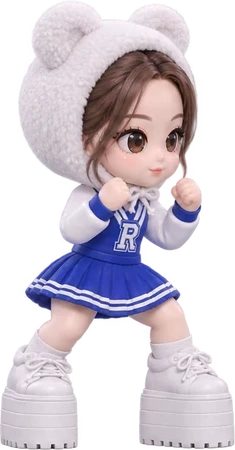
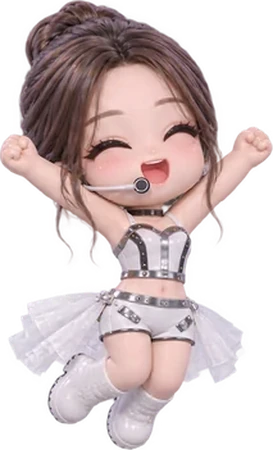
R 초상을 게임 속 R 그림으로 교체

diff --git a/js/assetv.js b/js/assetv.js
@@ -1,2 +1,2 @@
-const ASSET_V={"assets/audio/bgm.mp3":"1aaba7b2","assets/audio/extra-1.mp3":"27643529","assets/audio/qwer-d-day.mp3":"2830167b","assets/audio/qwer-fake-idol.mp3":"d2b479f6","assets/audio/qwer-ferris-wheel.mp3":"120067c3","assets/audio/qwer-fireworks.mp3":"bdbf5ae5","assets/audio/qwer-goodbye-sorrow.mp3":"504b895b","assets/audio/qwer-my-name-is-malguem.mp3":"eebe45ad","assets/audio/qwer-search-qwer.mp3":"e2c33678","assets/audio/qwer-soda.mp3":"25b22c69","assets/audio/qwer-tb-h.mp3":"cb39dc88","assets/audio/voices/E-select.mp3":"017d7db5","assets/audio/voices/E-win.mp3":"9423c33f","assets/audio/voices/Q-select.mp3":"2b9a2cb5","assets/audio/voices/Q-win.mp3":"32c22843","assets/audio/voices/R-select.mp3":"67428aa2","assets/audio/voices/R-win.mp3":"421a2656","assets/audio/voices/W-select.mp3":"bfeec2d0","assets/audio/voices/W-win.mp3":"286b2432","assets/backgrounds/bg_anime.webp":"49189dc7","assets/backgrounds/bg_aqua.webp":"98b68019","assets/backgrounds/bg_band.webp":"b2ecf112","assets/backgrounds/bg_base.webp":"dd71b105","assets/backgrounds/bg_beach.webp":"48f2346a","assets/backgrounds/bg_bridge.webp":"cad93db2","assets/backgrounds/bg_chinatown.webp":"657c2390","assets/backgrounds/bg_classroom.webp":"5df32c50","assets/backgrounds/bg_concert.webp":"2cd4d734","assets/backgrounds/bg_donut.webp":"8b12e605","assets/backgrounds/bg_gym.webp":"c741473c","assets/backgrounds/bg_hanok.webp":"ea64c7f2","assets/backgrounds/bg_park.webp":"f8f69fbf","assets/backgrounds/bg_rain.webp":"c4dbcf99","assets/backgrounds/bg_rooftop.webp":"d08abb70","assets/backgrounds/bg_snow.webp":"0fe806eb","assets/backgrounds/bg_space.webp":"0ff66d08","assets/backgrounds/bg_terminal.webp":"d9e9f158","assets/backgrounds/bg_terminal_arcade.webp":"690b9758","assets/characters/B.webp":"91b09728","assets/characters/D.webp":"324939f1","assets/characters/E.webp":"76b0fd8f","assets/characters/Eb.webp":"0c02faad","assets/characters/Ec.webp":"6901247e","assets/characters/G.webp":"79c70701","assets/characters/Q.webp":"ebe26317","assets/characters/Qb.webp":"22a242b4","assets/characters/Qc.webp":"25339713","assets/characters/R.webp":"620c71af","assets/characters/Rb.webp":"6d9caae3","assets/characters/Rc.webp":"72970d77","assets/characters/Rd.webp":"3e13534c","assets/characters/W.webp":"124b8c8e","assets/characters/Wb.webp":"5bd84e6d","assets/characters/Wc.webp":"9d730bcb","assets/characters/ostrich-r.webp":"f36485a3","assets/emotes/icon_1.webp":"e834c9fc","assets/emotes/icon_13.webp":"ced6be1a","assets/emotes/icon_19.webp":"6eca9b25","assets/emotes/icon_22.webp":"ad3d03f1","assets/emotes/icon_28.webp":"cb4c7512","assets/emotes/icon_33.webp":"57cf40f0","assets/emotes/icon_34.webp":"333682d6","assets/emotes/icon_36.webp":"1de00e10","assets/emotes/icon_38.webp":"52043a2f","assets/emotes/icon_39.webp":"ff33cab9","assets/emotes/icon_41.webp":"3f5fabf0","assets/emotes/icon_45.webp":"addf7b16","assets/emotes/icon_46.webp":"024ab088","assets/emotes/icon_49.webp":"be67b384","assets/emotes/icon_50.webp":"3c880ad8","assets/emotes/icon_57.webp":"7f6e5ae8","assets/emotes/icon_62.webp":"099a9ec7","assets/emotes/icon_65.webp":"d664ad8d","assets/emotes/icon_69.webp":"2050c1ed","assets/emotes/icon_8.webp":"3fe0846f","assets/emotes/icon_87.webp":"905d0d99","assets/emotes/icon_89.webp":"37372a3d","assets/emotes/icon_91.webp":"89b48092","assets/emotes/icon_92.webp":"6fb425ef","assets/emotes/icon_94.webp":"b110da8e","assets/emotes/icon_95.webp":"9a6b4437","assets/emotes/icon_98.webp":"2d258415","assets/emotes/thumb/icon_1.webp":"136837e5","assets/emotes/thumb/icon_13.webp":"5e3867c1","assets/emotes/thumb/icon_19.webp":"d6eb0f03","assets/emotes/thumb/icon_22.webp":"a767fc76","assets/emotes/thumb/icon_28.webp":"ec98b5a2","assets/emotes/thumb/icon_33.webp":"6408ba02","assets/emotes/thumb/icon_34.webp":"2aa3c54a","assets/emotes/thumb/icon_36.webp":"dc3e9788","assets/emotes/thumb/icon_38.webp":"7f85a09d","assets/emotes/thumb/icon_39.webp":"b1fadb0d","assets/emotes/thumb/icon_41.webp":"7303712b","assets/emotes/thumb/icon_45.webp":"7a1924c5","assets/emotes/thumb/icon_46.webp":"5835c768","assets/emotes/thumb/icon_49.webp":"50c5dac4","assets/emotes/thumb/icon_50.webp":"d23a8087","assets/emotes/thumb/icon_57.webp":"40b0eed8","assets/emotes/thumb/icon_62.webp":"a3d334ca","assets/emotes/thumb/icon_65.webp":"d96399f3","assets/emotes/thumb/icon_69.webp":"75195972","assets/emotes/thumb/icon_8.webp":"c5c82ee8","assets/emotes/thumb/icon_87.webp":"75462682","assets/emotes/thumb/icon_89.webp":"fa2fb05b","assets/emotes/thumb/icon_91.webp":"31208034","assets/emotes/thumb/icon_92.webp":"5de92e6a","assets/emotes/thumb/icon_94.webp":"87c7110b","assets/emotes/thumb/icon_95.webp":"eff04fc8","assets/emotes/thumb/icon_98.webp":"5caa213a","assets/faces/B_face.webp":"b1b04403","assets/faces/D_face.webp":"019111cc","assets/faces/E_face.webp":"5a365c76","assets/faces/Eb_face.webp":"52f1f416","assets/faces/Ec_face.webp":"0a22ee57","assets/faces/G_face.webp":"2df10de9","assets/faces/Q_face.webp":"842ad22d","assets/faces/Qb_face.webp":"480c3aff","assets/faces/Qc_face.webp":"30e2ab72","assets/faces/R_face.webp":"646f2d28","assets/faces/Rb_face.webp":"cb5505b5","assets/faces/Rc_face.webp":"025bb463","assets/faces/Rd_face.webp":"f00b88dc","assets/faces/W_face.webp":"c8fbc6b3","assets/faces/Wb_face.webp":"2849e1bc","assets/faces/Wc_face.webp":"2972e762","assets/fonts/BlackHanSans.woff2":"c73265bb","assets/fonts/Bungee.woff2":"8ac97fda","assets/fonts/IBMPlexSansKR-Regular.woff2":"737cb610","assets/fonts/IBMPlexSansKR-SemiBold.woff2":"57c25254","assets/fonts/OFL-BlackHanSans.txt":"380fde59","assets/fonts/OFL-Bungee.txt":"ed00dc15","assets/fonts/OFL-IBMPlexSansKR.txt":"0ae1afdc","assets/fonts/OFL-Pretendard.txt":"18fe4610","assets/fonts/Pretendard-ExtraBold.woff2":"1b077a90","assets/lib/peerjs.min.js":"7e60515a","assets/thumbnails/th_anime.jpg":"b3ed8d6a","assets/thumbnails/th_aqua.jpg":"b6233e26","assets/thumbnails/th_band.jpg":"aa12367e","assets/thumbnails/th_base.jpg":"a0ca34c4","assets/thumbnails/th_beach.jpg":"015c1b5a","assets/thumbnails/th_bridge.jpg":"9602dd89","assets/thumbnails/th_chinatown.jpg":"71309555","assets/thumbnails/th_classroom.jpg":"539fc97d","assets/thumbnails/th_concert.jpg":"b9ed6681","assets/thumbnails/th_donut.jpg":"0606e81c","assets/thumbnails/th_gym.jpg":"4426af79","assets/thumbnails/th_hanok.jpg":"df80f531","assets/thumbnails/th_park.jpg":"cf62f3c3","assets/thumbnails/th_rain.jpg":"515447f1","assets/thumbnails/th_rooftop.jpg":"bfd5d01a","assets/thumbnails/th_snow.jpg":"0159d7c5","assets/thumbnails/th_space.jpg":"5184dfa8","assets/thumbnails/th_terminal.jpg":"62f1e04b","assets/thumbnails/th_terminal_arcade.jpg":"ebf49341","assets/ui/qddup-busan-cover.jpg":"04b05f5f","assets/ui/qddup-busan-share.jpg":"23fca48c","assets/ui/qddup-busan-title.mp4":"1bfd18a7","assets/ui/roster-energy.webp":"add15ffe","assets/ui/roster/B.webp":"7de4b487","assets/ui/roster/E.webp":"940c568d","assets/ui/roster/Eb.webp":"bd00a1c0","assets/ui/roster/Ec.webp":"9044e970","assets/ui/roster/G.webp":"acd26a21","assets/ui/roster/Q.webp":"91b08bca","assets/ui/roster/Qb.webp":"315030af","assets/ui/roster/Qc.webp":"807f094b","assets/ui/roster/R.webp":"3e3bb339","assets/ui/roster/Rb.webp":"536e0533","assets/ui/roster/Rc.webp":"50afe96b","assets/ui/roster/Rd.webp":"08cb5ab8","assets/ui/roster/W.webp":"070725d0","assets/ui/roster/Wb.webp":"c2614728","assets/ui/roster/Wc.webp":"f48d9b9d","assets/ui/title.jpg":"89b0c471","assets/videos/sp_B.mp4":"150e2f15","assets/videos/sp_E2.mp4":"21736269","assets/videos/sp_ET.mp4":"9086c33e","assets/videos/sp_E_fire.mp4":"5477b0e8","assets/videos/sp_Eb_fire.mp4":"3722005c","assets/videos/sp_Ec_fire.mp4":"af3d6c72","assets/videos/sp_G.mp4":"02491534","assets/videos/sp_GT.mp4":"ea8f6b3c","assets/videos/sp_Q.mp4":"9d97462e","assets/videos/sp_Q2.mp4":"eccec935","assets/videos/sp_QT.mp4":"517d9216","assets/videos/sp_Qb.mp4":"ae050595","assets/videos/sp_QbT.mp4":"f0f7e747","assets/videos/sp_Qc.mp4":"c8c7d81f","assets/videos/sp_QcT.mp4":"b05c5bd9","assets/videos/sp_R.mp4":"5e365d9b","assets/videos/sp_R2.mp4":"4cc11253","assets/videos/sp_RT.mp4":"2159bf91","assets/videos/sp_Rb.mp4":"c2c76571","assets/videos/sp_Rc.mp4":"cf1e9842","assets/videos/sp_RcT.mp4":"ee13eac9","assets/videos/sp_Rd.mp4":"d3ba4c66","assets/videos/sp_W.mp4":"631249ac","assets/videos/sp_W2.mp4":"34a85605","assets/videos/sp_WT.mp4":"455ada0a","assets/videos/sp_Wb.mp4":"28692d4d","assets/videos/sp_WbT.mp4":"d18a11b6","assets/videos/sp_Wc.mp4":"3fe96d12","assets/videos/sp_WcT.mp4":"e9213c75","assets/videos/win_E.mp4":"61c0dbbd","assets/videos/win_Eb.mp4":"f2eac728","assets/videos/win_Ec.mp4":"e704afee","assets/videos/win_Q.mp4":"f5259b04","assets/videos/win_Qb.mp4":"823f7246","assets/videos/win_Qc.mp4":"6fced5a8","assets/videos/win_R.mp4":"85216692","assets/videos/win_Rb.mp4":"78ffa0bc","assets/videos/win_Rc.mp4":"93689f08","assets/videos/win_Rd.mp4":"befb25e6","assets/videos/win_W.mp4":"bd2d0315","assets/videos/win_Wb.mp4":"349f8de9","assets/videos/win_Wc.mp4":"0f0dc337"};
-const ASSET_SZ={"assets/audio/bgm.mp3":2772671,"assets/audio/extra-1.mp3":1421208,"assets/audio/qwer-d-day.mp3":3481677,"assets/audio/qwer-fake-idol.mp3":3182324,"assets/audio/qwer-ferris-wheel.mp3":4416345,"assets/audio/qwer-fireworks.mp3":4191692,"assets/audio/qwer-goodbye-sorrow.mp3":6512732,"assets/audio/qwer-my-name-is-malguem.mp3":2423692,"assets/audio/qwer-search-qwer.mp3":3201656,"assets/audio/qwer-soda.mp3":2520451,"assets/audio/qwer-tb-h.mp3":2492552,"assets/audio/voices/E-select.mp3":56436,"assets/audio/voices/E-win.mp3":50100,"assets/audio/voices/Q-select.mp3":24180,"assets/audio/voices/Q-win.mp3":56436,"assets/audio/voices/R-select.mp3":21045,"assets/audio/voices/R-win.mp3":50733,"assets/audio/voices/W-select.mp3":41460,"assets/audio/voices/W-win.mp3":52980,"assets/backgrounds/bg_anime.webp":271666,"assets/backgrounds/bg_aqua.webp":234124,"assets/backgrounds/bg_band.webp":259886,"assets/backgrounds/bg_base.webp":242646,"assets/backgrounds/bg_beach.webp":207688,"assets/backgrounds/bg_bridge.webp":245720,"assets/backgrounds/bg_chinatown.webp":352216,"assets/backgrounds/bg_classroom.webp":211716,"assets/backgrounds/bg_concert.webp":351622,"assets/backgrounds/bg_donut.webp":157200,"assets/backgrounds/bg_gym.webp":192070,"assets/backgrounds/bg_hanok.webp":323540,"assets/backgrounds/bg_park.webp":255544,"assets/backgrounds/bg_rain.webp":325186,"assets/backgrounds/bg_rooftop.webp":285004,"assets/backgrounds/bg_snow.webp":257586,"assets/backgrounds/bg_space.webp":159604,"assets/backgrounds/bg_terminal.webp":180640,"assets/backgrounds/bg_terminal_arcade.webp":196664,"assets/characters/B.webp":362284,"assets/characters/D.webp":77542,"assets/characters/E.webp":392668,"assets/characters/Eb.webp":477636,"assets/characters/Ec.webp":397762,"assets/characters/G.webp":292850,"assets/characters/Q.webp":407072,"assets/characters/Qb.webp":508760,"assets/characters/Qc.webp":371204,"assets/characters/R.webp":348286,"assets/characters/Rb.webp":372804,"assets/characters/Rc.webp":236482,"assets/characters/Rd.webp":329610,"assets/characters/W.webp":375664,"assets/characters/Wb.webp":459930,"assets/characters/Wc.webp":403154,"assets/characters/ostrich-r.webp":95146,"assets/emotes/icon_1.webp":24284,"assets/emotes/icon_13.webp":11612,"assets/emotes/icon_19.webp":11468,"assets/emotes/icon_22.webp":104130,"assets/emotes/icon_28.webp":72896,"assets/emotes/icon_33.webp":68612,"assets/emotes/icon_34.webp":87226,"assets/emotes/icon_36.webp":12980,"assets/emotes/icon_38.webp":12060,"assets/emotes/icon_39.webp":42844,"assets/emotes/icon_41.webp":12516,"assets/emotes/icon_45.webp":10738,"assets/emotes/icon_46.webp":13110,"assets/emotes/icon_49.webp":303222,"assets/emotes/icon_50.webp":128238,"assets/emotes/icon_57.webp":483596,"assets/emotes/icon_62.webp":24446,"assets/emotes/icon_65.webp":306944,"assets/emotes/icon_69.webp":251610,"assets/emotes/icon_8.webp":10938,"assets/emotes/icon_87.webp":91344,"assets/emotes/icon_89.webp":88876,"assets/emotes/icon_91.webp":62702,"assets/emotes/icon_92.webp":63076,"assets/emotes/icon_94.webp":11038,"assets/emotes/icon_95.webp":10806,"assets/emotes/icon_98.webp":239080,"assets/emotes/thumb/icon_1.webp":7826,"assets/emotes/thumb/icon_13.webp":8382,"assets/emotes/thumb/icon_19.webp":8352,"assets/emotes/thumb/icon_22.webp":7784,"assets/emotes/thumb/icon_28.webp":7924,"assets/emotes/thumb/icon_33.webp":8026,"assets/emotes/thumb/icon_34.webp":8784,"assets/emotes/thumb/icon_36.webp":9036,"assets/emotes/thumb/icon_38.webp":8554,"assets/emotes/thumb/icon_39.webp":7942,"assets/emotes/thumb/icon_41.webp":8642,"assets/emotes/thumb/icon_45.webp":7962,"assets/emotes/thumb/icon_46.webp":8930,"assets/emotes/thumb/icon_49.webp":8634,"assets/emotes/thumb/icon_50.webp":7804,"assets/emotes/thumb/icon_57.webp":8212,"assets/emotes/thumb/icon_62.webp":8168,"assets/emotes/thumb/icon_65.webp":8550,"assets/emotes/thumb/icon_69.webp":8106,"assets/emotes/thumb/icon_8.webp":8208,"assets/emotes/thumb/icon_87.webp":9368,"assets/emotes/thumb/icon_89.webp":9366,"assets/emotes/thumb/icon_91.webp":8526,"assets/emotes/thumb/icon_92.webp":8508,"assets/emotes/thumb/icon_94.webp":8008,"assets/emotes/thumb/icon_95.webp":8006,"assets/emotes/thumb/icon_98.webp":7554,"assets/faces/B_face.webp":26876,"assets/faces/D_face.webp":30910,"assets/faces/E_face.webp":31448,"assets/faces/Eb_face.webp":28958,"assets/faces/Ec_face.webp":29514,"assets/faces/G_face.webp":34300,"assets/faces/Q_face.webp":31514,"assets/faces/Qb_face.webp":25830,"assets/faces/Qc_face.webp":26818,"assets/faces/R_face.webp":29534,"assets/faces/Rb_face.webp":29564,"assets/faces/Rc_face.webp":27480,"assets/faces/Rd_face.webp":34056,"assets/faces/W_face.webp":34596,"assets/faces/Wb_face.webp":32668,"assets/faces/Wc_face.webp":28818,"assets/fonts/BlackHanSans.woff2":166800,"assets/fonts/Bungee.woff2":13352,"assets/fonts/IBMPlexSansKR-Regular.woff2":226624,"assets/fonts/IBMPlexSansKR-SemiBold.woff2":264208,"assets/fonts/OFL-BlackHanSans.txt":4399,"assets/fonts/OFL-Bungee.txt":4473,"assets/fonts/OFL-IBMPlexSansKR.txt":4456,"assets/fonts/OFL-Pretendard.txt":4441,"assets/fonts/Pretendard-ExtraBold.woff2":182064,"assets/lib/peerjs.min.js":92865,"assets/thumbnails/th_anime.jpg":31332,"assets/thumbnails/th_aqua.jpg":29758,"assets/thumbnails/th_band.jpg":30030,"assets/thumbnails/th_base.jpg":24583,"assets/thumbnails/th_beach.jpg":26187,"assets/thumbnails/th_bridge.jpg":22121,"assets/thumbnails/th_chinatown.jpg":26539,"assets/thumbnails/th_classroom.jpg":21560,"assets/thumbnails/th_concert.jpg":34117,"assets/thumbnails/th_donut.jpg":26806,"assets/thumbnails/th_gym.jpg":30375,"assets/thumbnails/th_hanok.jpg":30309,"assets/thumbnails/th_park.jpg":29202,"assets/thumbnails/th_rain.jpg":23667,"assets/thumbnails/th_rooftop.jpg":29082,"assets/thumbnails/th_snow.jpg":31092,"assets/thumbnails/th_space.jpg":27325,"assets/thumbnails/th_terminal.jpg":19029,"assets/thumbnails/th_terminal_arcade.jpg":22903,"assets/ui/qddup-busan-cover.jpg":595026,"assets/ui/qddup-busan-share.jpg":321761,"assets/ui/qddup-busan-title.mp4":6951589,"assets/ui/roster-energy.webp":66212,"assets/ui/roster/B.webp":32290,"assets/ui/roster/E.webp":30794,"assets/ui/roster/Eb.webp":61010,"assets/ui/roster/Ec.webp":48316,"assets/ui/roster/G.webp":26892,"assets/ui/roster/Q.webp":34780,"assets/ui/roster/Qb.webp":42952,"assets/ui/roster/Qc.webp":35238,"assets/ui/roster/R.webp":40386,"assets/ui/roster/Rb.webp":34188,"assets/ui/roster/Rc.webp":20354,"assets/ui/roster/Rd.webp":31504,"assets/ui/roster/W.webp":31680,"assets/ui/roster/Wb.webp":44496,"assets/ui/roster/Wc.webp":40038,"assets/ui/title.jpg":462238,"assets/videos/sp_B.mp4":344913,"assets/videos/sp_E2.mp4":555611,"assets/videos/sp_ET.mp4":590812,"assets/videos/sp_E_fire.mp4":485303,"assets/videos/sp_Eb_fire.mp4":540582,"assets/videos/sp_Ec_fire.mp4":462202,"assets/videos/sp_G.mp4":391907,"assets/videos/sp_GT.mp4":327412,"assets/videos/sp_Q.mp4":576475,"assets/videos/sp_Q2.mp4":446211,"assets/videos/sp_QT.mp4":552351,"assets/videos/sp_Qb.mp4":895493,"assets/videos/sp_QbT.mp4":958651,"assets/videos/sp_Qc.mp4":515706,"assets/videos/sp_QcT.mp4":543566,"assets/videos/sp_R.mp4":570469,"assets/videos/sp_R2.mp4":581679,"assets/videos/sp_RT.mp4":728137,"assets/videos/sp_Rb.mp4":450254,"assets/videos/sp_Rc.mp4":604079,"assets/videos/sp_RcT.mp4":732498,"assets/videos/sp_Rd.mp4":302202,"assets/videos/sp_W.mp4":487224,"assets/videos/sp_W2.mp4":595850,"assets/videos/sp_WT.mp4":682716,"assets/videos/sp_Wb.mp4":463691,"assets/videos/sp_WbT.mp4":806668,"assets/videos/sp_Wc.mp4":368021,"assets/videos/sp_WcT.mp4":518172,"assets/videos/win_E.mp4":1664151,"assets/videos/win_Eb.mp4":1416780,"assets/videos/win_Ec.mp4":1516352,"assets/videos/win_Q.mp4":1371788,"assets/videos/win_Qb.mp4":1334217,"assets/videos/win_Qc.mp4":1481245,"assets/videos/win_R.mp4":1211274,"assets/videos/win_Rb.mp4":1201611,"assets/videos/win_Rc.mp4":1199946,"assets/videos/win_Rd.mp4":1812226,"assets/videos/win_W.mp4":1770408,"assets/videos/win_Wb.mp4":1332037,"assets/videos/win_Wc.mp4":1279533};
+const ASSET_V={"assets/audio/bgm.mp3":"1aaba7b2","assets/audio/extra-1.mp3":"27643529","assets/audio/qwer-d-day.mp3":"2830167b","assets/audio/qwer-fake-idol.mp3":"d2b479f6","assets/audio/qwer-ferris-wheel.mp3":"120067c3","assets/audio/qwer-fireworks.mp3":"bdbf5ae5","assets/audio/qwer-goodbye-sorrow.mp3":"504b895b","assets/audio/qwer-my-name-is-malguem.mp3":"eebe45ad","assets/audio/qwer-search-qwer.mp3":"e2c33678","assets/audio/qwer-soda.mp3":"25b22c69","assets/audio/qwer-tb-h.mp3":"cb39dc88","assets/audio/voices/E-select.mp3":"017d7db5","assets/audio/voices/E-win.mp3":"9423c33f","assets/audio/voices/Q-select.mp3":"2b9a2cb5","assets/audio/voices/Q-win.mp3":"32c22843","assets/audio/voices/R-select.mp3":"67428aa2","assets/audio/voices/R-win.mp3":"421a2656","assets/audio/voices/W-select.mp3":"bfeec2d0","assets/audio/voices/W-win.mp3":"286b2432","assets/backgrounds/bg_anime.webp":"49189dc7","assets/backgrounds/bg_aqua.webp":"98b68019","assets/backgrounds/bg_band.webp":"b2ecf112","assets/backgrounds/bg_base.webp":"dd71b105","assets/backgrounds/bg_beach.webp":"48f2346a","assets/backgrounds/bg_bridge.webp":"cad93db2","assets/backgrounds/bg_chinatown.webp":"657c2390","assets/backgrounds/bg_classroom.webp":"5df32c50","assets/backgrounds/bg_concert.webp":"2cd4d734","assets/backgrounds/bg_donut.webp":"8b12e605","assets/backgrounds/bg_gym.webp":"c741473c","assets/backgrounds/bg_hanok.webp":"ea64c7f2","assets/backgrounds/bg_park.webp":"f8f69fbf","assets/backgrounds/bg_rain.webp":"c4dbcf99","assets/backgrounds/bg_rooftop.webp":"d08abb70","assets/backgrounds/bg_snow.webp":"0fe806eb","assets/backgrounds/bg_space.webp":"0ff66d08","assets/backgrounds/bg_terminal.webp":"d9e9f158","assets/backgrounds/bg_terminal_arcade.webp":"690b9758","assets/characters/B.webp":"91b09728","assets/characters/D.webp":"324939f1","assets/characters/E.webp":"76b0fd8f","assets/characters/Eb.webp":"0c02faad","assets/characters/Ec.webp":"6901247e","assets/characters/G.webp":"79c70701","assets/characters/Q.webp":"ebe26317","assets/characters/Qb.webp":"22a242b4","assets/characters/Qc.webp":"25339713","assets/characters/R.webp":"620c71af","assets/characters/Rb.webp":"6d9caae3","assets/characters/Rc.webp":"72970d77","assets/characters/Rd.webp":"3e13534c","assets/characters/W.webp":"124b8c8e","assets/characters/Wb.webp":"5bd84e6d","assets/characters/Wc.webp":"9d730bcb","assets/characters/ostrich-r.webp":"f36485a3","assets/emotes/icon_1.webp":"e834c9fc","assets/emotes/icon_13.webp":"ced6be1a","assets/emotes/icon_19.webp":"6eca9b25","assets/emotes/icon_22.webp":"ad3d03f1","assets/emotes/icon_28.webp":"cb4c7512","assets/emotes/icon_33.webp":"57cf40f0","assets/emotes/icon_34.webp":"333682d6","assets/emotes/icon_36.webp":"1de00e10","assets/emotes/icon_38.webp":"52043a2f","assets/emotes/icon_39.webp":"ff33cab9","assets/emotes/icon_41.webp":"3f5fabf0","assets/emotes/icon_45.webp":"addf7b16","assets/emotes/icon_46.webp":"024ab088","assets/emotes/icon_49.webp":"be67b384","assets/emotes/icon_50.webp":"3c880ad8","assets/emotes/icon_57.webp":"7f6e5ae8","assets/emotes/icon_62.webp":"099a9ec7","assets/emotes/icon_65.webp":"d664ad8d","assets/emotes/icon_69.webp":"2050c1ed","assets/emotes/icon_8.webp":"3fe0846f","assets/emotes/icon_87.webp":"905d0d99","assets/emotes/icon_89.webp":"37372a3d","assets/emotes/icon_91.webp":"89b48092","assets/emotes/icon_92.webp":"6fb425ef","assets/emotes/icon_94.webp":"b110da8e","assets/emotes/icon_95.webp":"9a6b4437","assets/emotes/icon_98.webp":"2d258415","assets/emotes/thumb/icon_1.webp":"136837e5","assets/emotes/thumb/icon_13.webp":"5e3867c1","assets/emotes/thumb/icon_19.webp":"d6eb0f03","assets/emotes/thumb/icon_22.webp":"a767fc76","assets/emotes/thumb/icon_28.webp":"ec98b5a2","assets/emotes/thumb/icon_33.webp":"6408ba02","assets/emotes/thumb/icon_34.webp":"2aa3c54a","assets/emotes/thumb/icon_36.webp":"dc3e9788","assets/emotes/thumb/icon_38.webp":"7f85a09d","assets/emotes/thumb/icon_39.webp":"b1fadb0d","assets/emotes/thumb/icon_41.webp":"7303712b","assets/emotes/thumb/icon_45.webp":"7a1924c5","assets/emotes/thumb/icon_46.webp":"5835c768","assets/emotes/thumb/icon_49.webp":"50c5dac4","assets/emotes/thumb/icon_50.webp":"d23a8087","assets/emotes/thumb/icon_57.webp":"40b0eed8","assets/emotes/thumb/icon_62.webp":"a3d334ca","assets/emotes/thumb/icon_65.webp":"d96399f3","assets/emotes/thumb/icon_69.webp":"75195972","assets/emotes/thumb/icon_8.webp":"c5c82ee8","assets/emotes/thumb/icon_87.webp":"75462682","assets/emotes/thumb/icon_89.webp":"fa2fb05b","assets/emotes/thumb/icon_91.webp":"31208034","assets/emotes/thumb/icon_92.webp":"5de92e6a","assets/emotes/thumb/icon_94.webp":"87c7110b","assets/emotes/thumb/icon_95.webp":"eff04fc8","assets/emotes/thumb/icon_98.webp":"5caa213a","assets/faces/B_face.webp":"b1b04403","assets/faces/D_face.webp":"019111cc","assets/faces/E_face.webp":"5a365c76","assets/faces/Eb_face.webp":"52f1f416","assets/faces/Ec_face.webp":"0a22ee57","assets/faces/G_face.webp":"2df10de9","assets/faces/Q_face.webp":"842ad22d","assets/faces/Qb_face.webp":"480c3aff","assets/faces/Qc_face.webp":"30e2ab72","assets/faces/R_face.webp":"646f2d28","assets/faces/Rb_face.webp":"cb5505b5","assets/faces/Rc_face.webp":"025bb463","assets/faces/Rd_face.webp":"f00b88dc","assets/faces/W_face.webp":"c8fbc6b3","assets/faces/Wb_face.webp":"2849e1bc","assets/faces/Wc_face.webp":"2972e762","assets/fonts/BlackHanSans.woff2":"c73265bb","assets/fonts/Bungee.woff2":"8ac97fda","assets/fonts/IBMPlexSansKR-Regular.woff2":"737cb610","assets/fonts/IBMPlexSansKR-SemiBold.woff2":"57c25254","assets/fonts/OFL-BlackHanSans.txt":"380fde59","assets/fonts/OFL-Bungee.txt":"ed00dc15","assets/fonts/OFL-IBMPlexSansKR.txt":"0ae1afdc","assets/fonts/OFL-Pretendard.txt":"18fe4610","assets/fonts/Pretendard-ExtraBold.woff2":"1b077a90","assets/lib/peerjs.min.js":"7e60515a","assets/thumbnails/th_anime.jpg":"b3ed8d6a","assets/thumbnails/th_aqua.jpg":"b6233e26","assets/thumbnails/th_band.jpg":"aa12367e","assets/thumbnails/th_base.jpg":"a0ca34c4","assets/thumbnails/th_beach.jpg":"015c1b5a","assets/thumbnails/th_bridge.jpg":"9602dd89","assets/thumbnails/th_chinatown.jpg":"71309555","assets/thumbnails/th_classroom.jpg":"539fc97d","assets/thumbnails/th_concert.jpg":"b9ed6681","assets/thumbnails/th_donut.jpg":"0606e81c","assets/thumbnails/th_gym.jpg":"4426af79","assets/thumbnails/th_hanok.jpg":"df80f531","assets/thumbnails/th_park.jpg":"cf62f3c3","assets/thumbnails/th_rain.jpg":"515447f1","assets/thumbnails/th_rooftop.jpg":"bfd5d01a","assets/thumbnails/th_snow.jpg":"0159d7c5","assets/thumbnails/th_space.jpg":"5184dfa8","assets/thumbnails/th_terminal.jpg":"62f1e04b","assets/thumbnails/th_terminal_arcade.jpg":"ebf49341","assets/ui/qddup-busan-cover.jpg":"04b05f5f","assets/ui/qddup-busan-share.jpg":"23fca48c","assets/ui/qddup-busan-title.mp4":"1bfd18a7","assets/ui/roster-energy.webp":"add15ffe","assets/ui/roster/B.webp":"7de4b487","assets/ui/roster/E.webp":"940c568d","assets/ui/roster/Eb.webp":"bd00a1c0","assets/ui/roster/Ec.webp":"9044e970","assets/ui/roster/G.webp":"acd26a21","assets/ui/roster/Q.webp":"91b08bca","assets/ui/roster/Qb.webp":"315030af","assets/ui/roster/Qc.webp":"807f094b","assets/ui/roster/R.webp":"129f48d1","assets/ui/roster/Rb.webp":"536e0533","assets/ui/roster/Rc.webp":"50afe96b","assets/ui/roster/Rd.webp":"08cb5ab8","assets/ui/roster/W.webp":"070725d0","assets/ui/roster/Wb.webp":"c2614728","assets/ui/roster/Wc.webp":"f48d9b9d","assets/ui/title.jpg":"89b0c471","assets/videos/sp_B.mp4":"150e2f15","assets/videos/sp_E2.mp4":"21736269","assets/videos/sp_ET.mp4":"9086c33e","assets/videos/sp_E_fire.mp4":"5477b0e8","assets/videos/sp_Eb_fire.mp4":"3722005c","assets/videos/sp_Ec_fire.mp4":"af3d6c72","assets/videos/sp_G.mp4":"02491534","assets/videos/sp_GT.mp4":"ea8f6b3c","assets/videos/sp_Q.mp4":"9d97462e","assets/videos/sp_Q2.mp4":"eccec935","assets/videos/sp_QT.mp4":"517d9216","assets/videos/sp_Qb.mp4":"ae050595","assets/videos/sp_QbT.mp4":"f0f7e747","assets/videos/sp_Qc.mp4":"c8c7d81f","assets/videos/sp_QcT.mp4":"b05c5bd9","assets/videos/sp_R.mp4":"5e365d9b","assets/videos/sp_R2.mp4":"4cc11253","assets/videos/sp_RT.mp4":"2159bf91","assets/videos/sp_Rb.mp4":"c2c76571","assets/videos/sp_Rc.mp4":"cf1e9842","assets/videos/sp_RcT.mp4":"ee13eac9","assets/videos/sp_Rd.mp4":"d3ba4c66","assets/videos/sp_W.mp4":"631249ac","assets/videos/sp_W2.mp4":"34a85605","assets/videos/sp_WT.mp4":"455ada0a","assets/videos/sp_Wb.mp4":"28692d4d","assets/videos/sp_WbT.mp4":"d18a11b6","assets/videos/sp_Wc.mp4":"3fe96d12","assets/videos/sp_WcT.mp4":"e9213c75","assets/videos/win_E.mp4":"61c0dbbd","assets/videos/win_Eb.mp4":"f2eac728","assets/videos/win_Ec.mp4":"e704afee","assets/videos/win_Q.mp4":"f5259b04","assets/videos/win_Qb.mp4":"823f7246","assets/videos/win_Qc.mp4":"6fced5a8","assets/videos/win_R.mp4":"85216692","assets/videos/win_Rb.mp4":"78ffa0bc","assets/videos/win_Rc.mp4":"93689f08","assets/videos/win_Rd.mp4":"befb25e6","assets/videos/win_W.mp4":"bd2d0315","assets/videos/win_Wb.mp4":"349f8de9","assets/videos/win_Wc.mp4":"0f0dc337"};
+const ASSET_SZ={"assets/audio/bgm.mp3":2772671,"assets/audio/extra-1.mp3":1421208,"assets/audio/qwer-d-day.mp3":3481677,"assets/audio/qwer-fake-idol.mp3":3182324,"assets/audio/qwer-ferris-wheel.mp3":4416345,"assets/audio/qwer-fireworks.mp3":4191692,"assets/audio/qwer-goodbye-sorrow.mp3":6512732,"assets/audio/qwer-my-name-is-malguem.mp3":2423692,"assets/audio/qwer-search-qwer.mp3":3201656,"assets/audio/qwer-soda.mp3":2520451,"assets/audio/qwer-tb-h.mp3":2492552,"assets/audio/voices/E-select.mp3":56436,"assets/audio/voices/E-win.mp3":50100,"assets/audio/voices/Q-select.mp3":24180,"assets/audio/voices/Q-win.mp3":56436,"assets/audio/voices/R-select.mp3":21045,"assets/audio/voices/R-win.mp3":50733,"assets/audio/voices/W-select.mp3":41460,"assets/audio/voices/W-win.mp3":52980,"assets/backgrounds/bg_anime.webp":271666,"assets/backgrounds/bg_aqua.webp":234124,"assets/backgrounds/bg_band.webp":259886,"assets/backgrounds/bg_base.webp":242646,"assets/backgrounds/bg_beach.webp":207688,"assets/backgrounds/bg_bridge.webp":245720,"assets/backgrounds/bg_chinatown.webp":352216,"assets/backgrounds/bg_classroom.webp":211716,"assets/backgrounds/bg_concert.webp":351622,"assets/backgrounds/bg_donut.webp":157200,"assets/backgrounds/bg_gym.webp":192070,"assets/backgrounds/bg_hanok.webp":323540,"assets/backgrounds/bg_park.webp":255544,"assets/backgrounds/bg_rain.webp":325186,"assets/backgrounds/bg_rooftop.webp":285004,"assets/backgrounds/bg_snow.webp":257586,"assets/backgrounds/bg_space.webp":159604,"assets/backgrounds/bg_terminal.webp":180640,"assets/backgrounds/bg_terminal_arcade.webp":196664,"assets/characters/B.webp":362284,"assets/characters/D.webp":77542,"assets/characters/E.webp":392668,"assets/characters/Eb.webp":477636,"assets/characters/Ec.webp":397762,"assets/characters/G.webp":292850,"assets/characters/Q.webp":407072,"assets/characters/Qb.webp":508760,"assets/characters/Qc.webp":371204,"assets/characters/R.webp":348286,"assets/characters/Rb.webp":372804,"assets/characters/Rc.webp":236482,"assets/characters/Rd.webp":329610,"assets/characters/W.webp":375664,"assets/characters/Wb.webp":459930,"assets/characters/Wc.webp":403154,"assets/characters/ostrich-r.webp":95146,"assets/emotes/icon_1.webp":24284,"assets/emotes/icon_13.webp":11612,"assets/emotes/icon_19.webp":11468,"assets/emotes/icon_22.webp":104130,"assets/emotes/icon_28.webp":72896,"assets/emotes/icon_33.webp":68612,"assets/emotes/icon_34.webp":87226,"assets/emotes/icon_36.webp":12980,"assets/emotes/icon_38.webp":12060,"assets/emotes/icon_39.webp":42844,"assets/emotes/icon_41.webp":12516,"assets/emotes/icon_45.webp":10738,"assets/emotes/icon_46.webp":13110,"assets/emotes/icon_49.webp":303222,"assets/emotes/icon_50.webp":128238,"assets/emotes/icon_57.webp":483596,"assets/emotes/icon_62.webp":24446,"assets/emotes/icon_65.webp":306944,"assets/emotes/icon_69.webp":251610,"assets/emotes/icon_8.webp":10938,"assets/emotes/icon_87.webp":91344,"assets/emotes/icon_89.webp":88876,"assets/emotes/icon_91.webp":62702,"assets/emotes/icon_92.webp":63076,"assets/emotes/icon_94.webp":11038,"assets/emotes/icon_95.webp":10806,"assets/emotes/icon_98.webp":239080,"assets/emotes/thumb/icon_1.webp":7826,"assets/emotes/thumb/icon_13.webp":8382,"assets/emotes/thumb/icon_19.webp":8352,"assets/emotes/thumb/icon_22.webp":7784,"assets/emotes/thumb/icon_28.webp":7924,"assets/emotes/thumb/icon_33.webp":8026,"assets/emotes/thumb/icon_34.webp":8784,"assets/emotes/thumb/icon_36.webp":9036,"assets/emotes/thumb/icon_38.webp":8554,"assets/emotes/thumb/icon_39.webp":7942,"assets/emotes/thumb/icon_41.webp":8642,"assets/emotes/thumb/icon_45.webp":7962,"assets/emotes/thumb/icon_46.webp":8930,"assets/emotes/thumb/icon_49.webp":8634,"assets/emotes/thumb/icon_50.webp":7804,"assets/emotes/thumb/icon_57.webp":8212,"assets/emotes/thumb/icon_62.webp":8168,"assets/emotes/thumb/icon_65.webp":8550,"assets/emotes/thumb/icon_69.webp":8106,"assets/emotes/thumb/icon_8.webp":8208,"assets/emotes/thumb/icon_87.webp":9368,"assets/emotes/thumb/icon_89.webp":9366,"assets/emotes/thumb/icon_91.webp":8526,"assets/emotes/thumb/icon_92.webp":8508,"assets/emotes/thumb/icon_94.webp":8008,"assets/emotes/thumb/icon_95.webp":8006,"assets/emotes/thumb/icon_98.webp":7554,"assets/faces/B_face.webp":26876,"assets/faces/D_face.webp":30910,"assets/faces/E_face.webp":31448,"assets/faces/Eb_face.webp":28958,"assets/faces/Ec_face.webp":29514,"assets/faces/G_face.webp":34300,"assets/faces/Q_face.webp":31514,"assets/faces/Qb_face.webp":25830,"assets/faces/Qc_face.webp":26818,"assets/faces/R_face.webp":29534,"assets/faces/Rb_face.webp":29564,"assets/faces/Rc_face.webp":27480,"assets/faces/Rd_face.webp":34056,"assets/faces/W_face.webp":34596,"assets/faces/Wb_face.webp":32668,"assets/faces/Wc_face.webp":28818,"assets/fonts/BlackHanSans.woff2":166800,"assets/fonts/Bungee.woff2":13352,"assets/fonts/IBMPlexSansKR-Regular.woff2":226624,"assets/fonts/IBMPlexSansKR-SemiBold.woff2":264208,"assets/fonts/OFL-BlackHanSans.txt":4399,"assets/fonts/OFL-Bungee.txt":4473,"assets/fonts/OFL-IBMPlexSansKR.txt":4456,"assets/fonts/OFL-Pretendard.txt":4441,"assets/fonts/Pretendard-ExtraBold.woff2":182064,"assets/lib/peerjs.min.js":92865,"assets/thumbnails/th_anime.jpg":31332,"assets/thumbnails/th_aqua.jpg":29758,"assets/thumbnails/th_band.jpg":30030,"assets/thumbnails/th_base.jpg":24583,"assets/thumbnails/th_beach.jpg":26187,"assets/thumbnails/th_bridge.jpg":22121,"assets/thumbnails/th_chinatown.jpg":26539,"assets/thumbnails/th_classroom.jpg":21560,"assets/thumbnails/th_concert.jpg":34117,"assets/thumbnails/th_donut.jpg":26806,"assets/thumbnails/th_gym.jpg":30375,"assets/thumbnails/th_hanok.jpg":30309,"assets/thumbnails/th_park.jpg":29202,"assets/thumbnails/th_rain.jpg":23667,"assets/thumbnails/th_rooftop.jpg":29082,"assets/thumbnails/th_snow.jpg":31092,"assets/thumbnails/th_space.jpg":27325,"assets/thumbnails/th_terminal.jpg":19029,"assets/thumbnails/th_terminal_arcade.jpg":22903,"assets/ui/qddup-busan-cover.jpg":595026,"assets/ui/qddup-busan-share.jpg":321761,"assets/ui/qddup-busan-title.mp4":6951589,"assets/ui/roster-energy.webp":66212,"assets/ui/roster/B.webp":32290,"assets/ui/roster/E.webp":30794,"assets/ui/roster/Eb.webp":61010,"assets/ui/roster/Ec.webp":48316,"assets/ui/roster/G.webp":26892,"assets/ui/roster/Q.webp":34780,"assets/ui/roster/Qb.webp":42952,"assets/ui/roster/Qc.webp":35238,"assets/ui/roster/R.webp":43480,"assets/ui/roster/Rb.webp":34188,"assets/ui/roster/Rc.webp":20354,"assets/ui/roster/Rd.webp":31504,"assets/ui/roster/W.webp":31680,"assets/ui/roster/Wb.webp":44496,"assets/ui/roster/Wc.webp":40038,"assets/ui/title.jpg":462238,"assets/videos/sp_B.mp4":344913,"assets/videos/sp_E2.mp4":555611,"assets/videos/sp_ET.mp4":590812,"assets/videos/sp_E_fire.mp4":485303,"assets/videos/sp_Eb_fire.mp4":540582,"assets/videos/sp_Ec_fire.mp4":462202,"assets/videos/sp_G.mp4":391907,"assets/videos/sp_GT.mp4":327412,"assets/videos/sp_Q.mp4":576475,"assets/videos/sp_Q2.mp4":446211,"assets/videos/sp_QT.mp4":552351,"assets/videos/sp_Qb.mp4":895493,"assets/videos/sp_QbT.mp4":958651,"assets/videos/sp_Qc.mp4":515706,"assets/videos/sp_QcT.mp4":543566,"assets/videos/sp_R.mp4":570469,"assets/videos/sp_R2.mp4":581679,"assets/videos/sp_RT.mp4":728137,"assets/videos/sp_Rb.mp4":450254,"assets/videos/sp_Rc.mp4":604079,"assets/videos/sp_RcT.mp4":732498,"assets/videos/sp_Rd.mp4":302202,"assets/videos/sp_W.mp4":487224,"assets/videos/sp_W2.mp4":595850,"assets/videos/sp_WT.mp4":682716,"assets/videos/sp_Wb.mp4":463691,"assets/videos/sp_WbT.mp4":806668,"assets/videos/sp_Wc.mp4":368021,"assets/videos/sp_WcT.mp4":518172,"assets/videos/win_E.mp4":1664151,"assets/videos/win_Eb.mp4":1416780,"assets/videos/win_Ec.mp4":1516352,"assets/videos/win_Q.mp4":1371788,"assets/videos/win_Qb.mp4":1334217,"assets/videos/win_Qc.mp4":1481245,"assets/videos/win_R.mp4":1211274,"assets/videos/win_Rb.mp4":1201611,"assets/videos/win_Rc.mp4":1199946,"assets/videos/win_Rd.mp4":1812226,"assets/videos/win_W.mp4":1770408,"assets/videos/win_Wb.mp4":1332037,"assets/videos/win_Wc.mp4":1279533};

diff --git a/characters.html b/characters.html
@@ -190,7 +190,7 @@ footer{margin-top:48px;text-align:center;color:var(--dim);font-size:13px}
 </section>
 <section class="family" id="family-R"><div class="famhead"><h2>R 계열</h2><p>보컬. 높은 점프와 가드를 뚫는 잡기를 가진 계열</p></div>
 <article class="fighter" id="R" style="--c:#ffb86b">
-  <div class="portrait"><img src="assets/ui/roster/R.webp?v=3e3bb339" alt="R" loading="lazy"></div>
+  <div class="portrait"><img src="assets/ui/roster/R.webp?v=129f48d1" alt="R" loading="lazy"></div>
   <div class="info">
     <header><h3>R</h3><span class="role">공중 기동</span></header>
     <p class="trade">높은 점프와 도넛으로 거리를 재지만 체력이 낮아요.</p>

diff --git a/index.html b/index.html
@@ -132,7 +132,7 @@
 <div id="winCut"><video id="winVid" playsinline preload="none" aria-label="승리 세리머니"></video><span>화면을 누르면 건너뛰기</span></div>
 <div id="load"><div id="loadT">LOADING</div><div class="gauge"><i id="loadFill"></i></div><div id="loadPct">0%</div></div>
 
-<script src="js/assetv.js?v=bcb4ff74"></script>
+<script src="js/assetv.js?v=e4917c7f"></script>
 <script src="js/data.js?v=672c02b6"></script>
 <script src="js/audio.js?v=76edee90"></script>
 <script src="js/screens.js?v=23394b23"></script>

diff --git a/TODO.md b/TODO.md
@@ -199,3 +199,6 @@
 - `wrangler.jsonc`: 쓰지 않게 된 `RANKING_SEASON` 설정 삭제
 - `matchmaking.js`, `online.js`, `style.css`: 순위표 제목을 `오늘의 순위`로 바꾸고 "랭킹은 매일 밤 12시(한국 시간)에 초기화돼요." 안내문 추가. 결과 문구를 `오늘 순위에 반영됨`으로 변경
 - 영향: 기존 시즌 1 랭킹(52명)은 순위표에 더 이상 나오지 않고, 첫 로그인 때 기존 기록을 계정에 연결하는 기능도 동작할 일이 없어짐 (코드는 남겨 둠)
+
+**R 초상 교체**
+- `assets/ui/roster/R.webp`가 R2(곰돌이 후드) 그림이어서 게임 속 R(헤드셋 차림)의 승리 포즈(`art/characters/R/win.png`)로 교체. 캐릭터 소개 페이지와 캐릭터 선택 화면에 함께 적용됨
